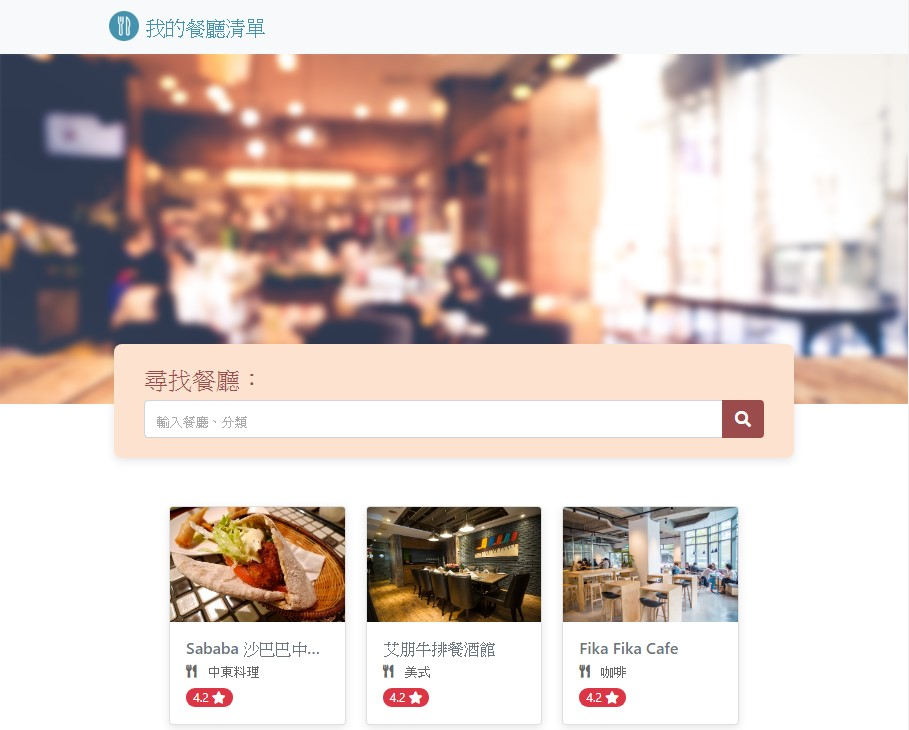
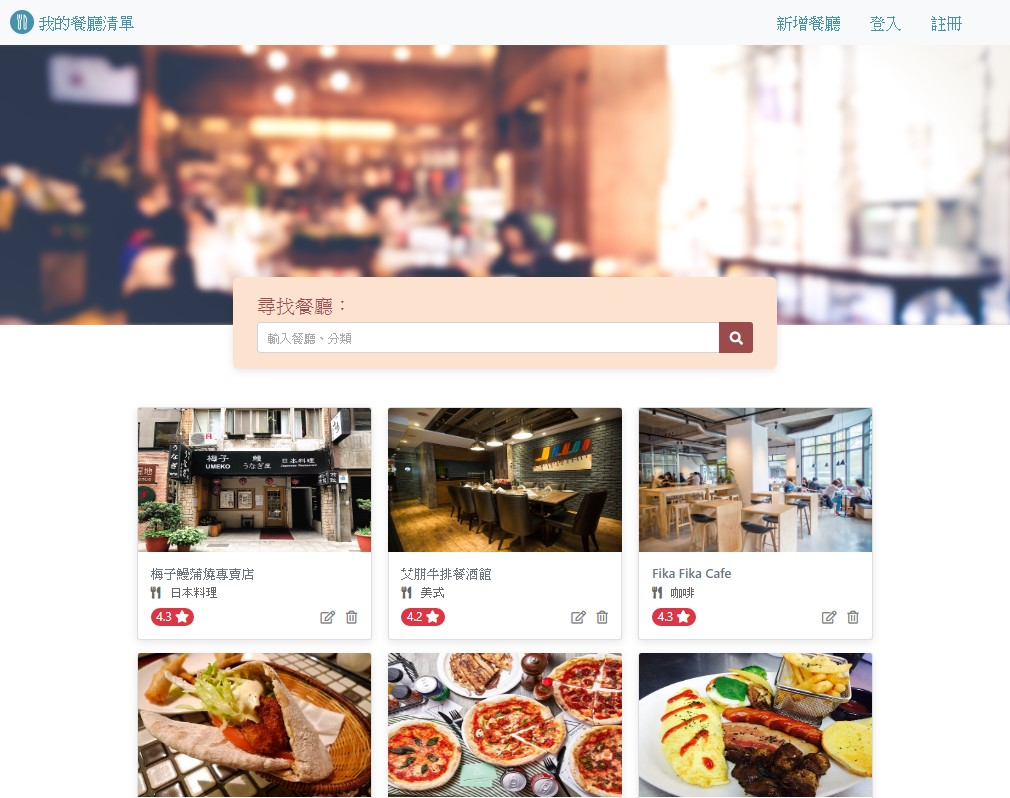
docs: add README

diff --git a/README.md b/README.md
@@ -1,0 +1,50 @@
+# 餐廳清單
+
+## Features
+ - 在首頁可瀏覽所有餐廳及簡單資訊
+ - 點選餐廳可進入瀏覽詳細資訊
+ - 搜尋餐廳名稱或類別找到特定的餐廳
+ - 使用者可以新增、修改、刪除餐廳資訊
+
+## Screen Photo
+ ![首頁](https://github.com/ccomos/restaurant_list_CRUD/blob/master/public/image/main.jpg)
+
+## How to use
+1.開啟終端機(Terminal)至要存放專案的本機位置並執行
+
+```
+git clone https://github.com/ccomos/restaurant_list_CRUD.git
+```
+
+2.初始
+
+```
+cd restaurant_list_CRUD  //切至專案資料夾
+```
+
+```
+npm install  //安裝套件
+```
+
+3.載入資料seeder
+
+```
+npm run seed
+```
+
+4.開啟程式
+
+```
+npm run dev //執行程式, 成功執行下會出現 
+'Express is listening on localhost:3000'
+'mongodb connected!'
+```
+
+5.於任一瀏覽器網址列輸入 [http://localhost:3000](http://localhost:3000) 進行瀏覽
+
+## Tooling
+- Node.js
+- express
+- express-handlebars
+- mongoDB
+- mongoose
